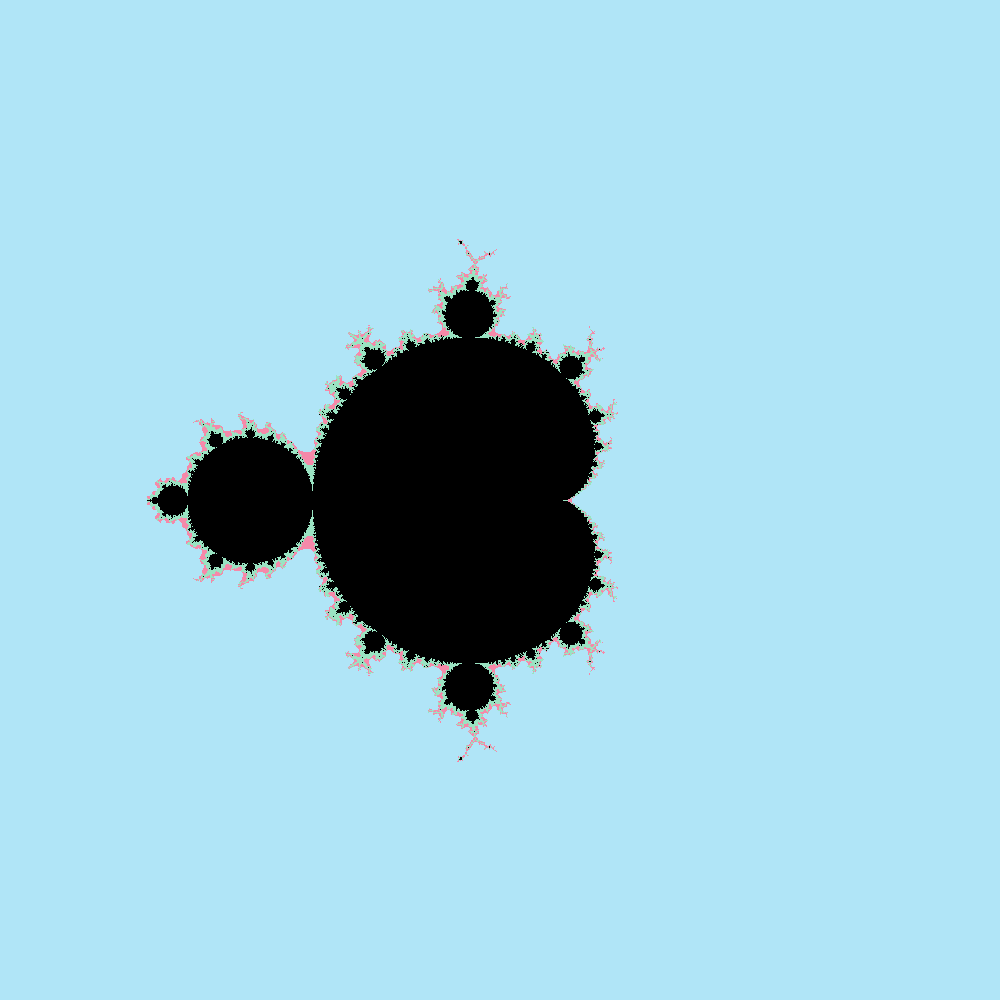
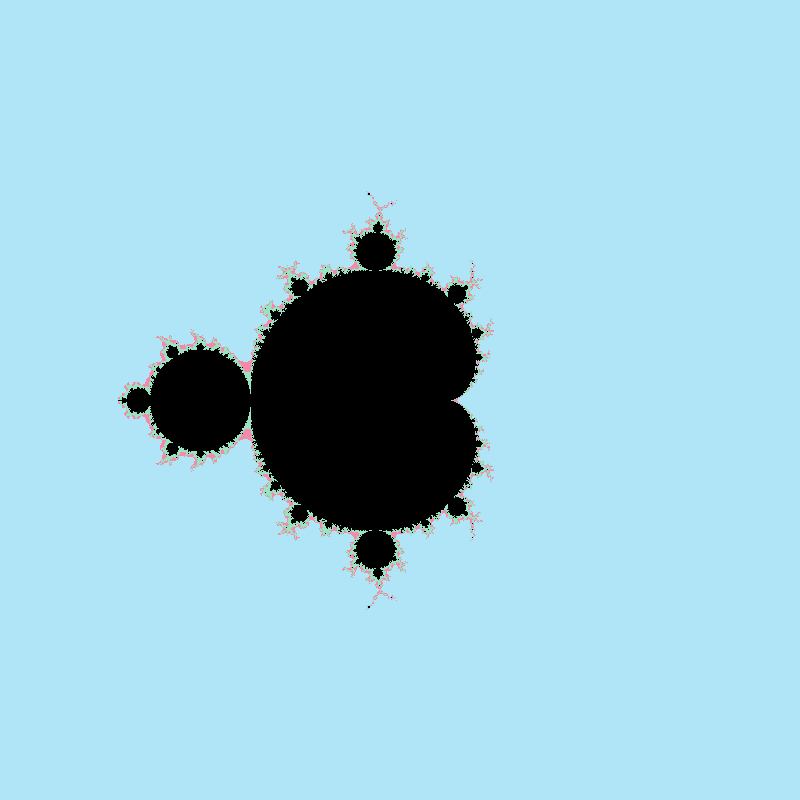
Draw slightly smaller for nicer GitHub preview.

diff --git a/check_mandelbrot.c b/check_mandelbrot.c
@@ -36,8 +36,8 @@ START_TEST(test_mandelbrot_stuff)
     ck_assert_int_eq( 0, cimag(point));
 
     point = coords_for_pixel(2 * WIDTH / 3, 5 * HEIGHT / 7);
-    assert_doubles_equal(0.664, creal(point));
-    assert_doubles_equal(0.856, cimag(point));
+    assert_doubles_equal(0.665, creal(point));
+    assert_doubles_equal(0.855, cimag(point));
 }
 END_TEST
 

diff --git a/mandelbrot.h b/mandelbrot.h
@@ -1,8 +1,8 @@
 #include <complex.h>
 #include <sys/types.h>
 
-#define WIDTH 1000
-#define HEIGHT 1000
+#define WIDTH 800
+#define HEIGHT 800
 
 void draw_something(void);
 complex double coords_for_pixel(size_t, size_t);
